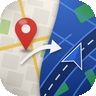
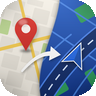
Lower the arrow so the divider and arrow no longer form an S
Claude-Session: https://claude.ai/code/session_01WPym94FLSeSwsxcNq83R7E

Changed region(s): [[0.2188, 0.4062, 0.6562, 0.7812]]

diff --git a/docs/design/build-icon.py b/docs/design/build-icon.py
@@ -49,7 +49,7 @@ WHITE = (255, 255, 255)
 DIV_TOP, DIV_C1, DIV_C2, DIV_BOTTOM = (0.62, 0.0), (0.58, 0.35), (0.36, 0.65), (0.42, 1.0)
 
 PIN_CENTER, PIN_RADIUS = (0.27, 0.30), 0.115          # head centre, head radius
-ARROW_P0, ARROW_C, ARROW_P1 = (0.22, 0.66), (0.40, 0.46), (0.56, 0.49)   # quadratic Bezier
+ARROW_P0, ARROW_C, ARROW_P1 = (0.23, 0.74), (0.40, 0.54), (0.55, 0.56)   # quadratic Bezier
 ARROW_WIDTH = 0.05
 CHEV_CENTER, CHEV_SIZE, CHEV_ANGLE = (0.79, 0.58), 0.13, 22              # degrees
 
